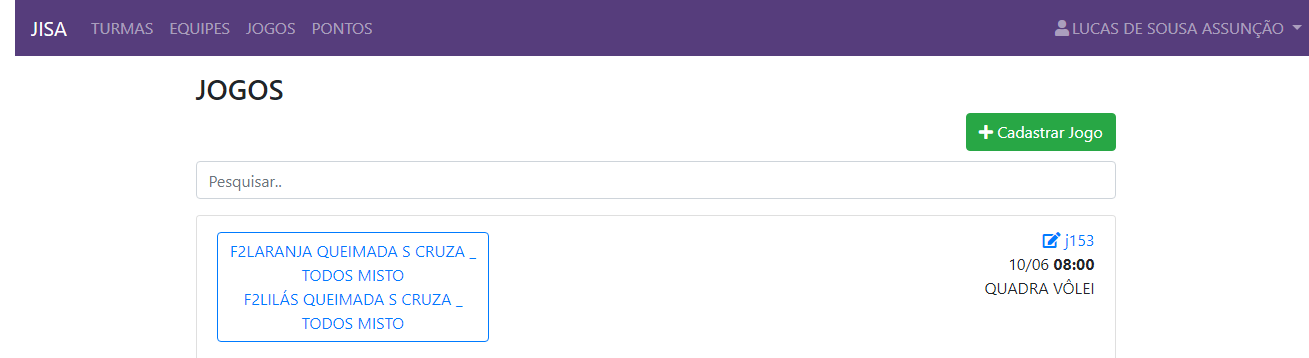
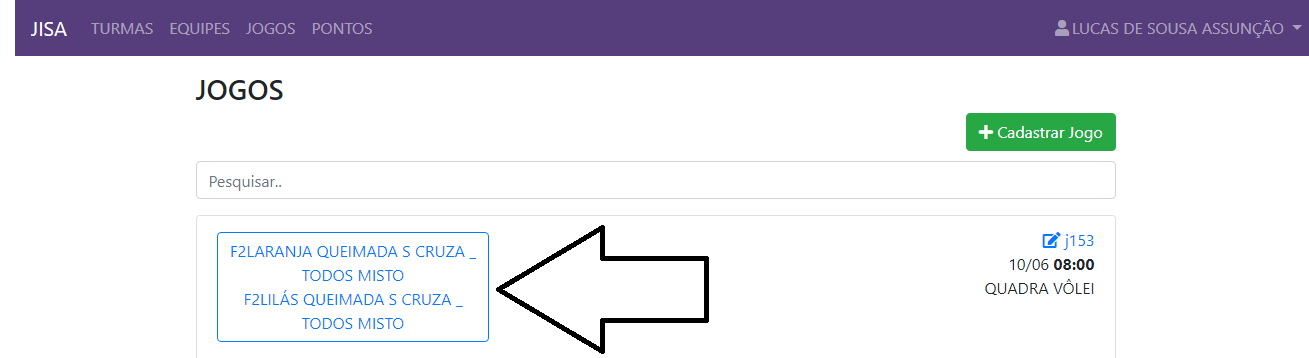
imagens tutorial do jogo

Changed region(s): [[0.4278, 0.6453, 0.55, 0.9832], [0.3667, 0.7682, 0.4278, 0.9218], [0.3972, 0.7067, 0.4278, 0.7682]]

diff --git a/application/views/home/home_tutorial.php b/application/views/home/home_tutorial.php
@@ -1,0 +1,198 @@
+<div class="row mt-5">
+  <div class="col-md-3" style="background-color: #e3d2ff; padding:20px">
+    <h4>TURMAS</h4>
+    <ul>
+      <li class=""><a class="" href="#" id="cadastrarTurma">Cadastrar Turma</a></li>
+		<!--
+	 <li class=""><a class="" href="#" id="listarTurmas">Listar Turmas</a></li>
+	 <!-- -->
+      <li class=""><a class="" href="#" id="editarTurma">Editar Turma</a></li>
+      <!--
+      <li class=""><a class="" href="#">Visualizar Equipes da Turma</a></li>
+      -->
+    </ul>
+    <h4>EQUIPES</h4>
+    <ul>
+      <li class=""><a class="" href="#" id="cadastrarEquipe">Cadastrar Equipe</a></li>
+      <!--
+      <li class=""><a class="" href="#" id="listarEquipes">Listar Equipes</a></li>
+      <!-- -->
+      <li class=""><a class="" href="#" id="editarEquipe">Editar Equipe</a></li>
+      <li class=""><a class="" href="#" id="adicionarIntegrantes">Adicionar Integrantes</a></li>
+    </ul>
+    <h4>JOGOS</h4>
+    <ul>
+      <li class=""><a class="" href="#" id="cadastrarJogo">Cadastrar Jogo</a></li>
+      <li class=""><a class="" href="#" id="editarJogo">Editar Jogo</a></li>
+      <li class=""><a class="" href="#" id="sumulaJogo">Preencher Súmula do Jogo</a></li>
+    </ul>
+    <h4>PONTOS</h4>
+    <ul>
+      <li class=""><a class="" href="#" id="listarPontos">Listar os Pontos</a></li>
+    </ul>
+  </div><!-- col-md-3 -->
+  <div class="col-md-9">
+    <div id="cadastrarTurma">
+      <h4>Cadastrar Turma</h4>
+      <hr>
+      <h5>1° Passo</h5>
+      <img class="img-fluid" src="<?php echo base_url('assets/imagens/tutorial/turmas.png?2019'); ?>" " alt="">
+      <h5>2° Passo</h5>
+      <img class="img-fluid" src="<?php echo base_url('assets/imagens/tutorial/turmas_cadastrar.png?2019'); ?>" " alt="">
+    </div>
+    <div id="listarTurmas">
+      <h4>Listar Turmas</h4>
+      <hr>
+      <h5>1° Passo</h5>
+      <img class="img-fluid" src="<?php echo base_url('assets/imagens/tutorial/turmas.png'); ?>" " alt="">
+      <h5>2° Passo</h5>
+      <img class="img-fluid" src="<?php echo base_url('assets/imagens/tutorial/turmas_lista.png?04062019'); ?>" " alt="">
+    </div>
+    <div id="editarTurma">
+      <h4>Editar Turma</h4>
+      <hr>
+      <h5>1° Passo</h5>
+      <img class="img-fluid" src="<?php echo base_url('assets/imagens/tutorial/turmas.png'); ?>" " alt="">
+      <h5>2° Passo</h5>
+      <img class="img-fluid" src="<?php echo base_url('assets/imagens/tutorial/turmas_editar.png'); ?>" " alt="">
+    </div>
+
+    <div id="cadastrarEquipe">
+      <h4>Cadastrar Equipe</h4>
+      <hr>
+      <h5>1° Passo</h5>
+      <img class="img-fluid" src="<?php echo base_url('assets/imagens/tutorial/equipes.png?2019'); ?>" " alt="">
+      <h5>2° Passo</h5>
+      <img class="img-fluid" src="<?php echo base_url('assets/imagens/tutorial/equipes_cadastrar.png'); ?>" " alt="">
+    </div>
+ 
+    <div id="editarEquipe">
+      <h4>Editar Equipe</h4>
+      <hr>
+      <h5>1° Passo</h5>
+      <img class="img-fluid" src="<?php echo base_url('assets/imagens/tutorial/equipes.png?2019'); ?>" " alt="">
+      <!--
+      <h5>2° Passo</h5>
+      <img class="img-fluid" src="<?php echo base_url('assets/imagens/tutorial/equipes_listar.png'); ?>" " alt="">
+      <!-- -->
+      <h5>2° Passo</h5>
+      <img class="img-fluid" src="<?php echo base_url('assets/imagens/tutorial/equipes_editar.png'); ?>" " alt="">
+    </div>
+    <div id="adicionarIntegrantes">
+      <h4>Adicionar Integrantes</h4>
+      <hr>
+      <h5>1° Passo</h5>
+      <img class="img-fluid" src="<?php echo base_url('assets/imagens/tutorial/equipes.png?2019'); ?>" " alt="">
+      <h5>2° Passo</h5>
+      <img class="img-fluid" src="<?php echo base_url('assets/imagens/tutorial/equipes_adicionar_integrantes.png'); ?>" " alt="">
+      <h5>3° Passo</h5>
+      <img class="img-fluid" src="<?php echo base_url('assets/imagens/tutorial/integrantes_adicionar.png'); ?>" " alt="">
+    </div>
+
+    <div id="cadastrarJogo">
+      <h4>Cadastrar Jogo</h4>
+      <hr>
+      <h5>1° Passo</h5>
+      <img class="img-fluid" src="<?php echo base_url('assets/imagens/tutorial/jogos.png'); ?>" " alt="">
+      <h5>2° Passo</h5>
+      <img class="img-fluid" src="<?php echo base_url('assets/imagens/tutorial/jogos_cadastrar.png'); ?>" " alt="">
+    </div>
+    <div id="editarJogo">
+      <h4>Editar Jogo</h4>
+      <hr>
+      <h5>1° Passo</h5>
+      <img class="img-fluid" src="<?php echo base_url('assets/imagens/tutorial/jogos.png'); ?>" " alt="">
+      <h5>2° Passo</h5>
+      <img class="img-fluid" src="<?php echo base_url('assets/imagens/tutorial/jogos_editar.png?02072019'); ?>" " alt="">
+    </div>
+    <div id="sumulaJogo">
+      <h4>Súmula do Jogo</h4>
+      <hr>
+      <h5>1° Passo</h5>
+      <img class="img-fluid" src="<?php echo base_url('assets/imagens/tutorial/jogos.png'); ?>" " alt="">
+      <h5>2° Passo</h5>
+      <img class="img-fluid" src="<?php echo base_url('assets/imagens/tutorial/jogos_sumula.png'); ?>" " alt="">
+      <h5>3° Passo</h5>
+      <img class="img-fluid" src="<?php echo base_url('assets/imagens/tutorial/jogos_sumula_2.png'); ?>" " alt="">
+    </div>
+  </div>
+</div>
+  
+
+<script>
+  $(document).ready(function(){
+    $("a#cadastrarTurma").click(function(){
+      hideAll();
+      $("div#cadastrarTurma").show(1000);
+      //console.log('clicou')
+    });
+    $("a#listarTurmas").click(function(){
+      hideAll();
+      $("div#listarTurmas").show(1000);
+      //console.log('clicou')
+    });
+    $("a#editarTurma").click(function(){
+      hideAll();
+      $("div#editarTurma").show(1000);
+      //console.log('clicou')
+    });
+
+    // instruçoes para equipe
+    $("a#cadastrarEquipe").click(function(){
+      hideAll();
+      $("div#cadastrarEquipe").show(1000);
+    });
+    $("a#listarEquipes").click(function(){
+      hideAll();
+      $("div#listarEquipes").show(1000);
+    });
+    $("a#editarEquipe").click(function(){
+      hideAll();
+      $("div#editarEquipe").show(1000);
+    });
+    $("a#adicionarIntegrantes").click(function(){
+      hideAll();
+      $("div#adicionarIntegrantes").show(1000);
+    });
+
+    $("a#cadastrarJogo").click(function(){
+      hideAll();
+      $("div#cadastrarJogo").show(1000);
+    });
+    $("a#listarJogos").click(function(){
+      hideAll();
+      $("div#listarJogos").show(1000);
+    });
+    $("a#editarJogo").click(function(){
+      hideAll();
+      $("div#editarJogo").show(1000);
+    });
+    $("a#sumulaJogo").click(function(){
+      hideAll();
+      $("div#sumulaJogo").show(1000);
+    });
+   
+    hideAll();
+
+    function hideAll(){
+      $("div#cadastrarTurma").hide();
+      $("div#listarTurmas").hide();
+      $("div#editarTurma").hide();
+
+      $("div#cadastrarEquipe").hide();
+      $("div#listarEquipes").hide();
+      $("div#editarEquipe").hide();
+      $("div#adicionarIntegrantes").hide();
+
+      $("div#cadastrarJogo").hide();
+      $("div#listarJogos").hide();
+      $("div#editarJogo").hide();
+      $("div#sumulaJogo").hide();
+    }
+
+    
+    $("#conteudo_site").removeClass('container');
+    $("#conteudo_site").css('margin-top','70px');
+/** */
+  });
+</script>
